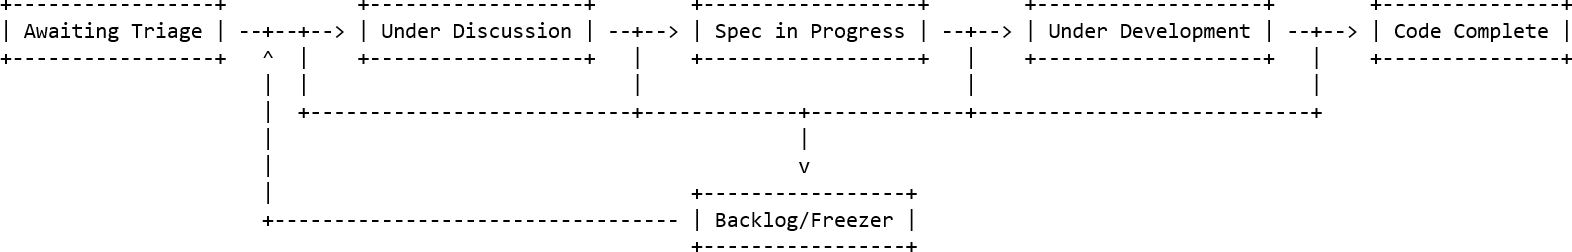
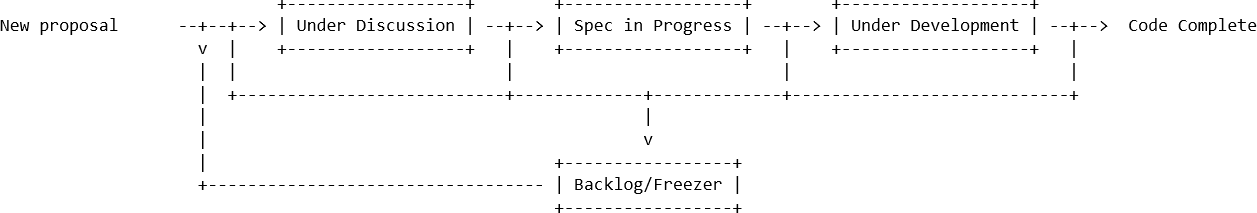
Triage process edits

diff --git a/docs/triage.md b/docs/triage.md
@@ -65,14 +65,11 @@ investigation, like debugging or another teams input, to determine how to route 
 ## Proposal Review Process
 The Proposal Tracking board has four columns to track the progress we are making on a
 proposal.
-* **Awaiting Triage**: This is where all new proposals start their journey. They are placed here before triage happens and a
-team member is assigned
-* **Under Discussion**: Issue is actively being reviewed and discussed to figure out what that means for our developers
+* **Under Discussion**: Issue is actively being reviewed and discussed internally and with the community to figure out what that means for our developers
 and the platform 
 * **Spec in Progress**:  Work is underway to get a spec ready for publishing or has already been 
 published and is currently being shaped by the community.
 * **Under Development**: The spec is signed off and development can start or has started.
-* **Code Complete**: A PR(s) meeting all the specifications is published.
 * **Backlog/Freezer**: Place where we put proposals that are not high priority at this time or that
 can be reviewed at a later date. The backlog will be reviewed at least once monthly by the triage team.
 
